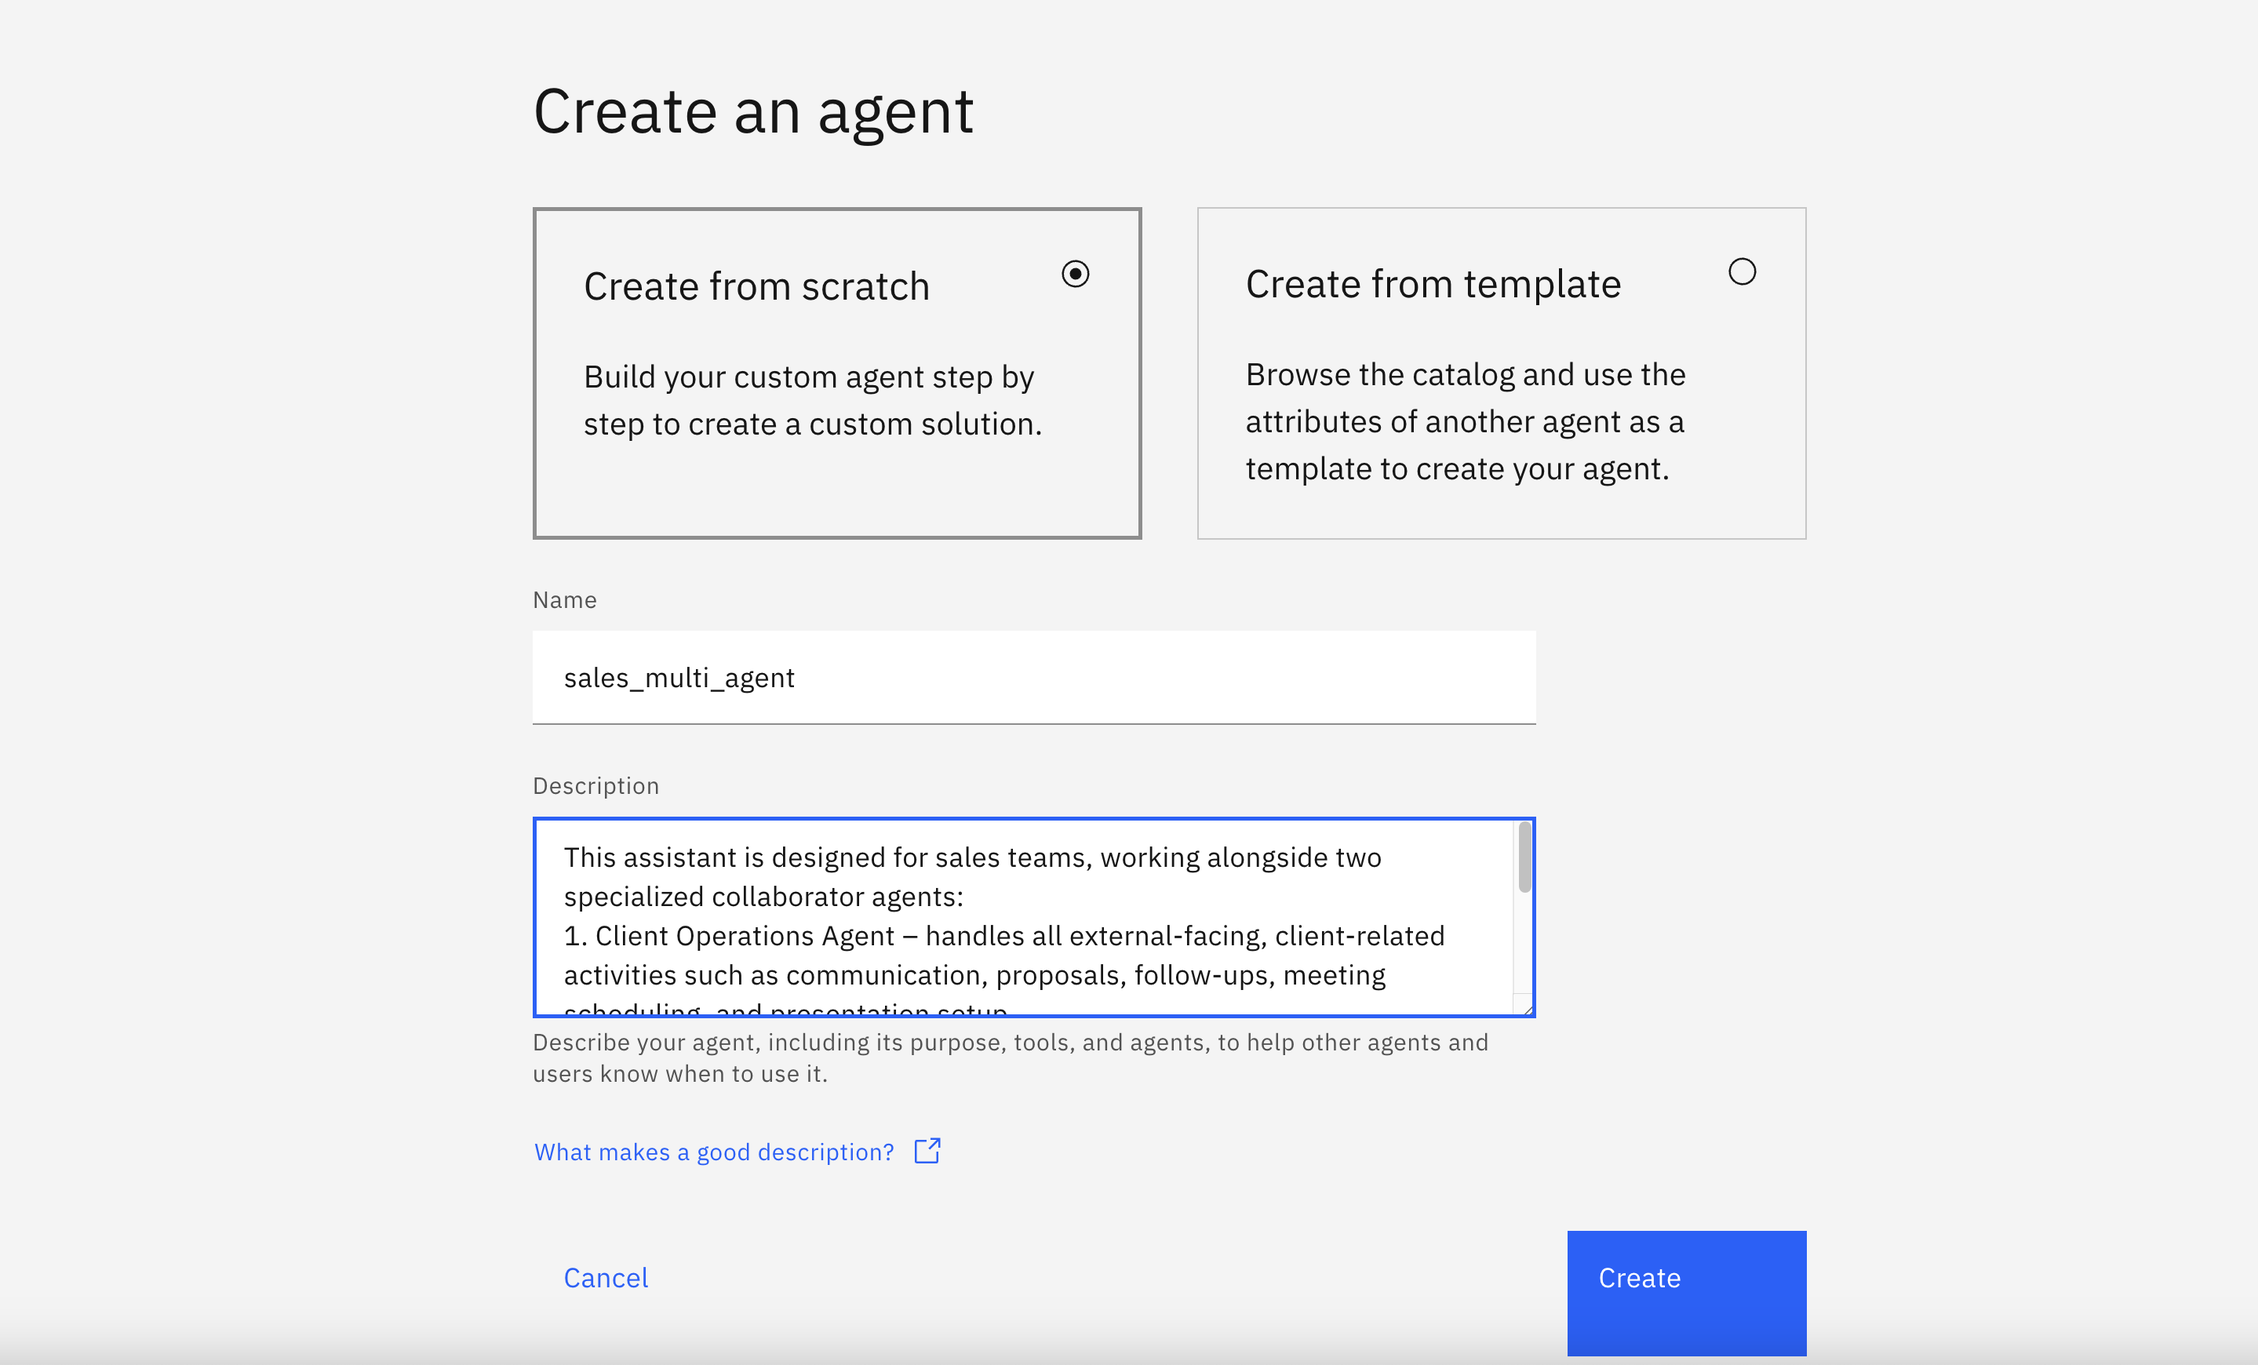
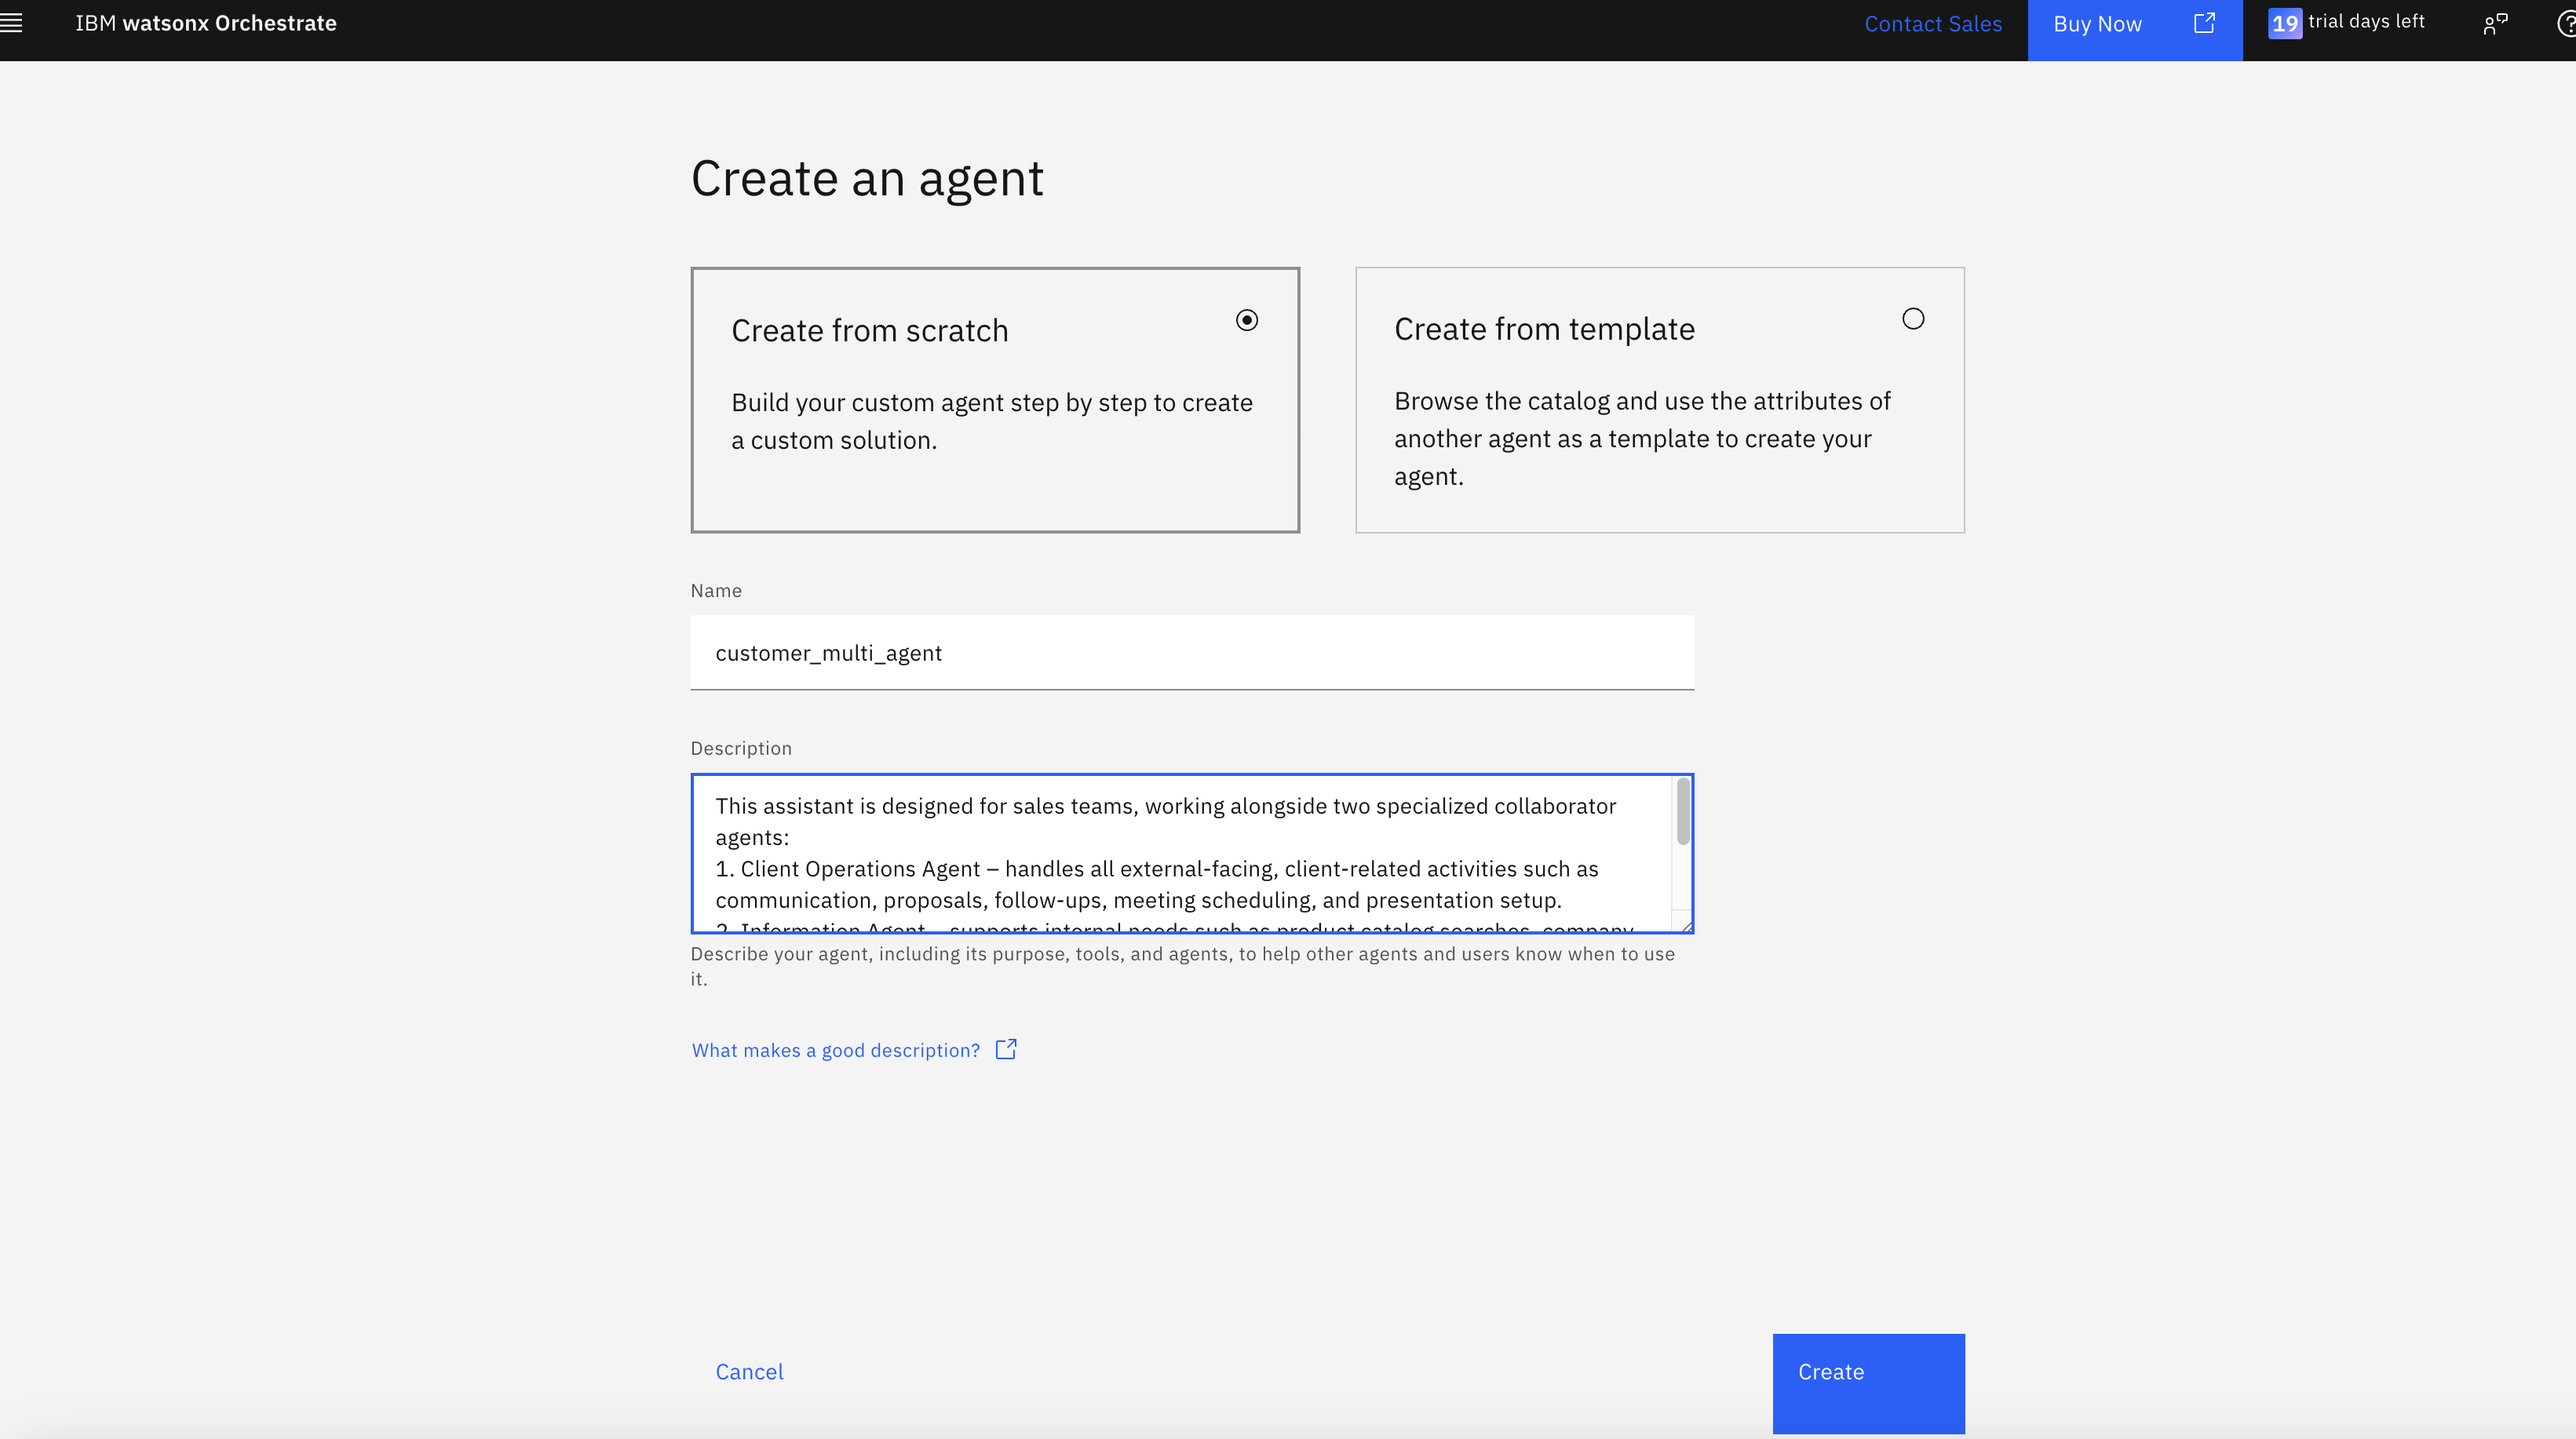
docs: Update UI instruction for LAB3

diff --git a/LAB_3_MULTI_AGENT/UI/README.md b/LAB_3_MULTI_AGENT/UI/README.md
@@ -1,10 +1,10 @@
 ### Instructions
-1. Please create a new agent. called `sales_multi_agent` and paste the description from `description.txt`
+1. Please create a new agent. called `customer_multi_agent` and paste the description from `description.txt`
 
 ![alt text](images/image.png)
 
 
-2. Switch the model to gemini-flash-2.5 and add the `client-operation-agent` from LAB1 and `information-agent` from LAB2
+2. Switch the model to `virtual-model/gemini-flash-2.5` and add the `client-operation-agent` from LAB1 and `information-agent` from LAB2
 
 ![alt text](images/image-1.png)
 
@@ -14,7 +14,7 @@
 
 3. Now add the instructions from `instructions.txt` to the model's instruction in the behaviour section
 
-![alt text](images/image-4.png)
+![alt text](images/image4.png)
 
 ### Final tests
 #### PART I: ต้องการซื้อเก้าอี้ใหม่จากร้าน 
